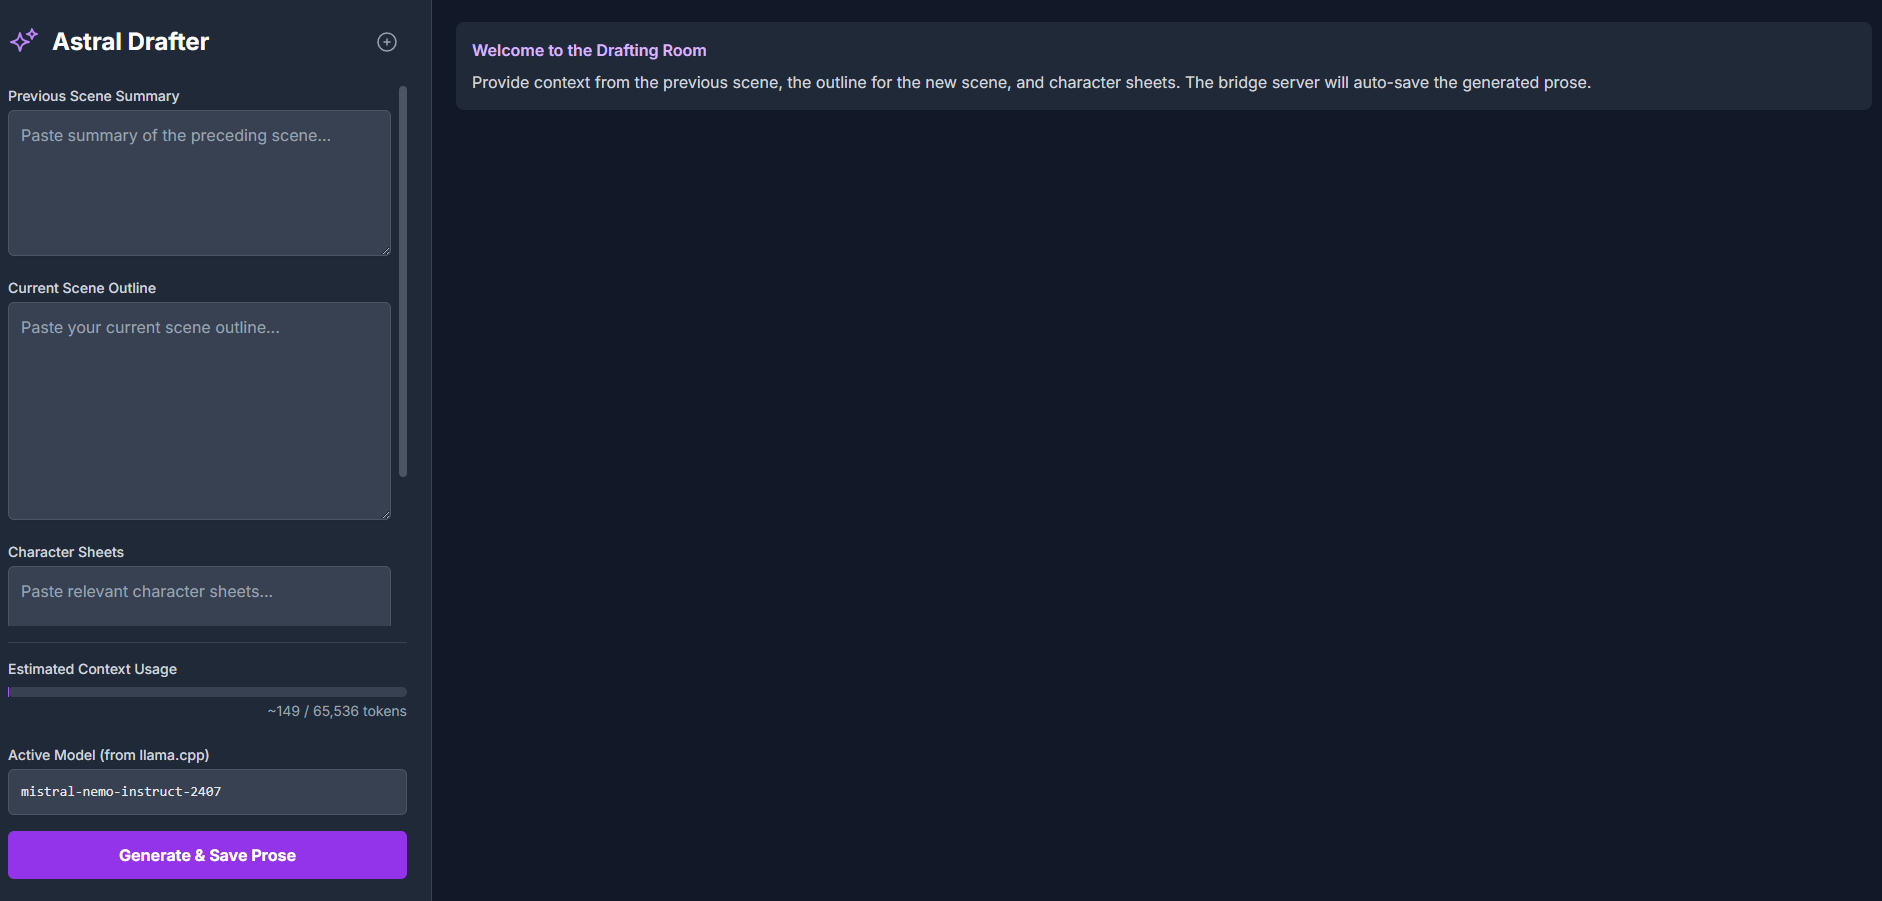
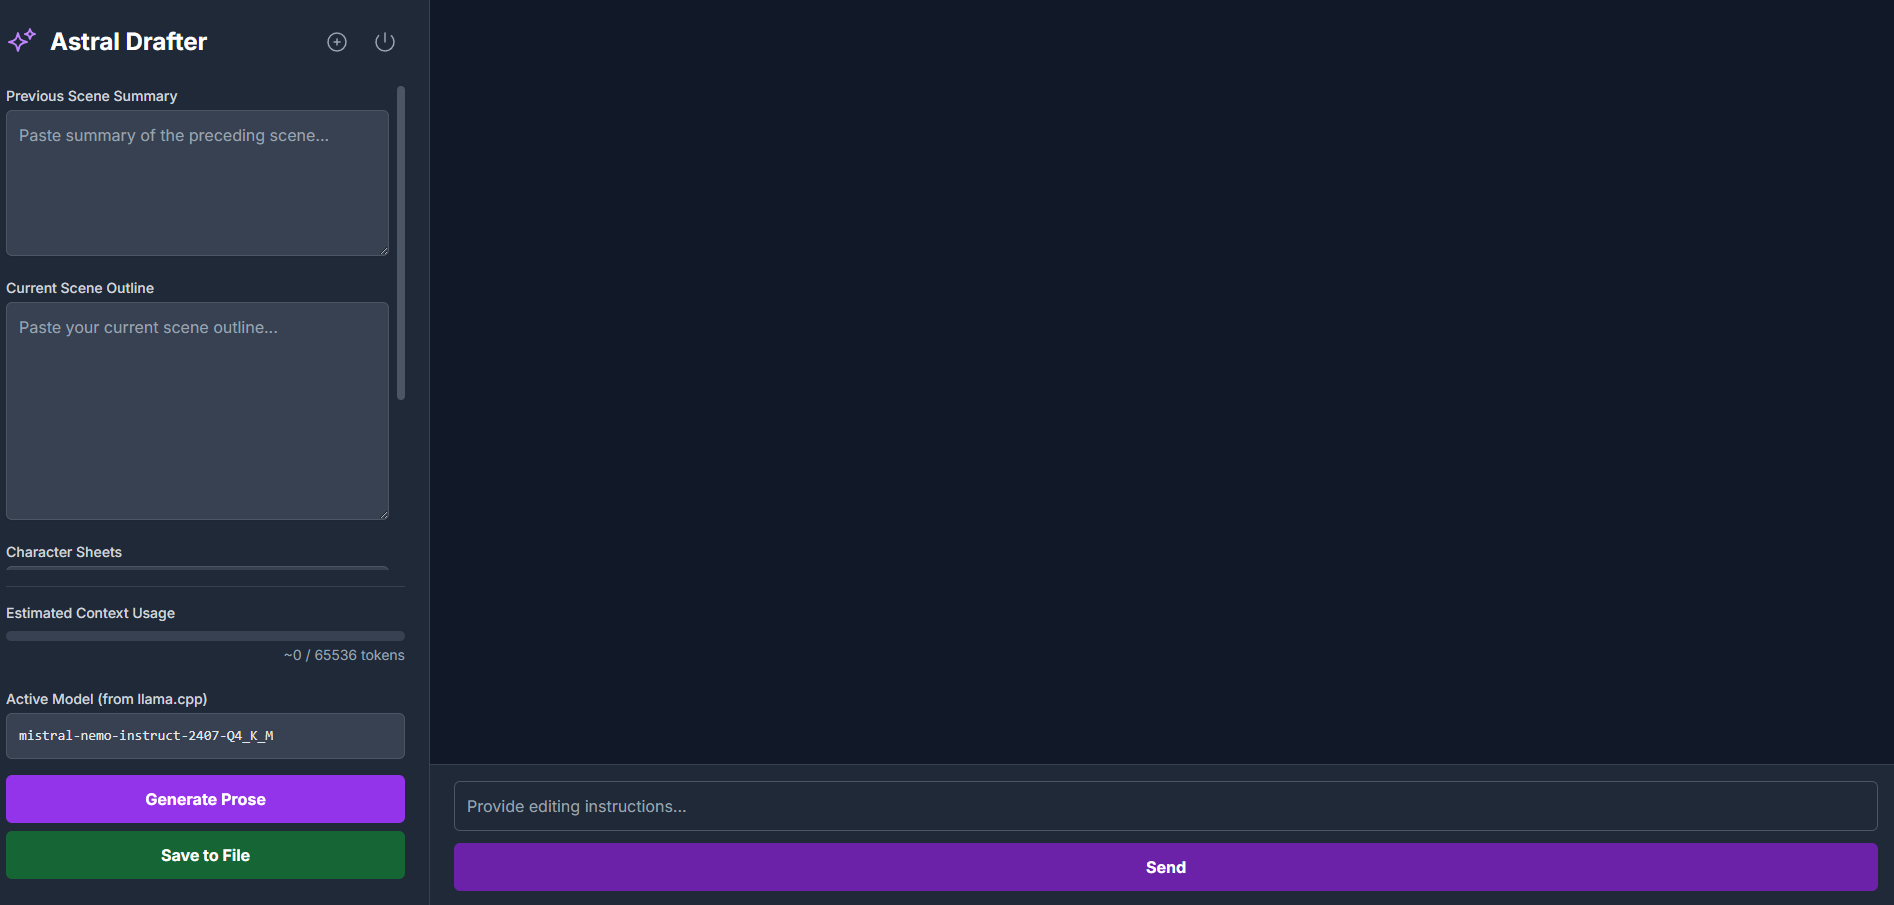
Server Shutdown Button_Model Naming

diff --git a/gui/astral_nexus_drafter.html b/gui/astral_nexus_drafter.html
@@ -42,11 +42,18 @@
                     </svg>
                     <h1 class="text-2xl font-bold text-white">Astral Drafter</h1>
                 </div>
-                <button id="new-scene-button" title="Start a new scene" class="p-2 rounded-md hover:bg-gray-700 transition text-gray-400 hover:text-white">
-                    <svg class="w-6 h-6" xmlns="http://www.w3.org/2000/svg" fill="none" viewBox="0 0 24 24" stroke-width="1.5" stroke="currentColor">
-                      <path stroke-linecap="round" stroke-linejoin="round" d="M12 9v6m3-3H9m12 0a9 9 0 1 1-18 0 9 9 0 0 1 18 0Z" />
-                    </svg>
-                </button>
+                <div class="flex items-center space-x-2">
+                    <button id="new-scene-button" title="Start a new scene" class="p-2 rounded-md hover:bg-gray-700 transition text-gray-400 hover:text-white">
+                        <svg class="w-6 h-6" xmlns="http://www.w3.org/2000/svg" fill="none" viewBox="0 0 24 24" stroke-width="1.5" stroke="currentColor">
+                          <path stroke-linecap="round" stroke-linejoin="round" d="M12 9v6m3-3H9m12 0a9 9 0 1 1-18 0 9 9 0 0 1 18 0Z" />
+                        </svg>
+                    </button>
+                    <button id="shutdown-button" title="Shutdown servers" class="p-2 rounded-md hover:bg-red-900 transition text-gray-400 hover:text-red-400">
+                        <svg class="w-6 h-6" xmlns="http://www.w3.org/2000/svg" fill="none" viewBox="0 0 24 24" stroke-width="1.5" stroke="currentColor">
+                            <path stroke-linecap="round" stroke-linejoin="round" d="M5.636 5.636a9 9 0 1 0 12.728 0M12 3v9" />
+                        </svg>
+                    </button>
+                </div>
             </div>
 
             <div class="flex flex-col space-y-4 flex-grow overflow-y-auto pr-2">
@@ -86,11 +93,11 @@
 
             <!-- Model Info and Generate Button -->
             <div class="mt-auto pt-6">
-                <!-- NEW: Static Model Info Display -->
+                <!-- Dynamic Model Info Display -->
                 <div>
                     <label class="block text-sm font-medium text-gray-300 mb-1">Active Model (from llama.cpp)</label>
                     <div class="w-full p-3 bg-gray-700 border border-gray-600 rounded-md">
-                        <p class="text-gray-200 font-mono text-sm">mistral-nemo-instruct-2407</p>
+                        <p id="model-name" class="text-gray-200 font-mono text-sm">Loading...</p>
                     </div>
                 </div>
 
@@ -134,6 +141,7 @@
         // --- Element Selectors ---
 const generateButton = document.getElementById('generate-button');
 const saveButton = document.getElementById('save-button');
+const shutdownButton = document.getElementById('shutdown-button');
 const newSceneButton = document.getElementById('new-scene-button');
 const spinner = document.getElementById('spinner');
 const prevSceneInput = document.getElementById('prev-scene-summary');
@@ -146,9 +154,11 @@ const progressBar = document.getElementById('progress-bar');
 const tokenCountEl = document.getElementById('token-count');
 const chatInput = document.getElementById('chat-input');
 const sendButton = document.getElementById('send-button');
+const modelNameEl = document.getElementById('model-name');
 
 // --- Configuration ---
-const MCP_SERVER_URL = "http://localhost:8081/mcp"; 
+const MCP_SERVER_URL = "http://localhost:8081/mcp";
+const MODEL_INFO_URL = "http://localhost:8081/model_info";
 const MAX_CONTEXT = 65536;
 
 // --- State ---
@@ -168,6 +178,7 @@ outlineInput.addEventListener('input', updateContextUsage);
 characterInput.addEventListener('input', updateContextUsage);
 generateButton.addEventListener('click', generateProse);
 saveButton.addEventListener('click', saveProseToFile);
+shutdownButton.addEventListener('click', shutdownServers);
 newSceneButton.addEventListener('click', resetInterface);
 sendButton.addEventListener('click', sendChatMessage);
 chatInput.addEventListener('keypress', (e) => {
@@ -175,6 +186,26 @@ chatInput.addEventListener('keypress', (e) => {
         sendChatMessage();
     }
 });
+
+// --- Initialization ---
+// Fetch model info when page loads
+async function fetchModelInfo() {
+    try {
+        const response = await fetch(MODEL_INFO_URL);
+        if (!response.ok) {
+            throw new Error(`Failed to fetch model info: ${response.status}`);
+        }
+        const data = await response.json();
+        modelNameEl.textContent = data.model_name || 'Unknown';
+    } catch (error) {
+        console.error("Error fetching model info:", error);
+        modelNameEl.textContent = 'Error loading model info';
+        modelNameEl.classList.add('text-red-400');
+    }
+}
+
+// Load model info on page load
+fetchModelInfo();
 
 // --- Core Functions ---
 function resetInterface() {
@@ -216,6 +247,56 @@ function updateContextUsage() {
     } else {
         progressBar.classList.remove('bg-yellow-500', 'bg-red-500');
         progressBar.classList.add('bg-purple-500');
+    }
+}
+
+async function shutdownServers() {
+    const confirmed = confirm("Shutdown Servers?\n\nThis will terminate both the llama.cpp server and the Python bridge server.");
+    
+    if (!confirmed) {
+        return;
+    }
+
+    shutdownButton.disabled = true;
+    errorMessage.textContent = '';
+
+    try {
+        const response = await fetch(MCP_SERVER_URL, {
+            method: 'POST',
+            headers: { 'Content-Type': 'application/json' },
+            body: JSON.stringify({
+                shutdown: true
+            })
+        });
+
+        if (!response.ok) {
+            const errorData = await response.json();
+            throw new Error(errorData.error || `Shutdown request failed: ${response.status}`);
+        }
+        
+        const result = await response.json();
+        
+        // Show success message
+        alert("Servers are now shut down. You can close this window.");
+        
+        // Disable all controls since servers are down
+        generateButton.disabled = true;
+        saveButton.disabled = true;
+        sendButton.disabled = true;
+        chatInput.disabled = true;
+
+    } catch (error) {
+        console.error("Error shutting down servers:", error);
+        // Even if we get an error, the shutdown process might have started
+        alert("Servers are now shut down. You can close this window.");
+        
+        // Disable all controls
+        generateButton.disabled = true;
+        saveButton.disabled = true;
+        sendButton.disabled = true;
+        chatInput.disabled = true;
+    } finally {
+        shutdownButton.disabled = false;
     }
 }
 
@@ -464,4 +545,3 @@ function resetInterface() {
     </script>
 </body>
 </html>
-

diff --git a/llama_cpp_server_bridge.py b/llama_cpp_server_bridge.py
@@ -3,11 +3,23 @@ import socketserver
 import json
 import requests
 import os
+import sys
+import subprocess
 
 LLAMA_CPP_API_URL = "http://localhost:8080/v1/chat/completions"
 PORT = 8081
 
+# Global reference to the server instance
+server_instance = None
+
 class DrafterBridgeServer(http.server.BaseHTTPRequestHandler):
+    
+    def do_GET(self):
+        """Handle GET requests for model information"""
+        if self.path == '/model_info':
+            self._handle_model_info_request()
+        else:
+            self.send_error(404, "Not Found")
     
     def do_POST(self):
         try:
@@ -15,8 +27,10 @@ class DrafterBridgeServer(http.server.BaseHTTPRequestHandler):
             post_data = self.rfile.read(content_length)
             data = json.loads(post_data)
 
-            # NEW: Check if this is a save request or a generation request
-            if 'save_content' in data:
+            # Check if this is a shutdown, save, or generation request
+            if 'shutdown' in data:
+                self._handle_shutdown_request()
+            elif 'save_content' in data:
                 self._handle_save_request(data)
             else:
                 self._handle_generation_request(data)
@@ -24,6 +38,75 @@ class DrafterBridgeServer(http.server.BaseHTTPRequestHandler):
         except (json.JSONDecodeError, TypeError, KeyError) as e:
             self._send_error(f"Invalid JSON request: {e}", 400)
             return
+
+    # Function to handle model info request
+    def _handle_model_info_request(self):
+        """Fetch and return model information from llama.cpp"""
+        try:
+            # Query the llama.cpp server for model info
+            response = requests.get("http://localhost:8080/v1/models")
+            response.raise_for_status()
+            
+            model_data = response.json()
+            # Extract model name from the response
+            model_name = "Unknown"
+            if 'data' in model_data and len(model_data['data']) > 0:
+                model_id = model_data['data'][0].get('id', 'Unknown')
+                # Clean up the model name (remove path if present, works on both Windows and Unix)
+                model_name = os.path.basename(model_id)
+                # Remove .gguf extension if present
+                if model_name.endswith('.gguf'):
+                    model_name = model_name[:-5]
+            
+            self.send_response(200)
+            self.send_header('Content-Type', 'application/json')
+            self.send_header('Access-Control-Allow-Origin', '*')
+            self.end_headers()
+            response_data = json.dumps({'model_name': model_name})
+            self.wfile.write(response_data.encode('utf-8'))
+            
+        except requests.exceptions.RequestException as e:
+            self._send_error(f"Could not fetch model info from llama.cpp: {e}", 503)
+        except Exception as e:
+            self._send_error(f"Error retrieving model info: {e}", 500)
+
+    # Function to handle shutdown request
+    def _handle_shutdown_request(self):
+        try:
+            self.send_response(200)
+            self.send_header('Content-Type', 'application/json')
+            self.send_header('Access-Control-Allow-Origin', '*')
+            self.end_headers()
+            response = json.dumps({'message': 'Shutting down servers...'})
+            self.wfile.write(response.encode('utf-8'))
+            
+            # Kill llama-server.exe
+            try:
+                subprocess.run(['taskkill', '/IM', 'llama-server.exe', '/F'], 
+                             capture_output=True, check=False)
+                print("Terminated llama-server.exe")
+            except Exception as e:
+                print(f"Error terminating llama-server: {e}")
+            
+            # Schedule this server to shut down
+            import threading
+            def shutdown_self():
+                import time
+                time.sleep(1)  # Give time for response to be sent
+                print("Shutting down bridge server...")
+                
+                # Shutdown the HTTP server
+                global server_instance
+                if server_instance:
+                    server_instance.shutdown()
+                
+                # Force exit the process
+                os._exit(0)
+            
+            threading.Thread(target=shutdown_self, daemon=True).start()
+            
+        except Exception as e:
+            self._send_error(f"Error during shutdown: {e}", 500)
 
     # NEW: Function to handle saving the file
     def _handle_save_request(self, data):
@@ -116,7 +199,13 @@ class DrafterBridgeServer(http.server.BaseHTTPRequestHandler):
         self.end_headers()
 
 if __name__ == "__main__":
-    with socketserver.TCPServer(("", PORT), DrafterBridgeServer) as httpd:
-        print(f"🚀 Astral Drafter BRIDGE server starting on http://localhost:{PORT}")
-        print(f"Ready to forward requests to llama.cpp at {LLAMA_CPP_API_URL}")
+    httpd = socketserver.TCPServer(("", PORT), DrafterBridgeServer)
+    server_instance = httpd
+    print(f"🚀 Astral Drafter BRIDGE server starting on http://localhost:{PORT}")
+    print(f"Ready to forward requests to llama.cpp at {LLAMA_CPP_API_URL}")
+    try:
         httpd.serve_forever()
+    except KeyboardInterrupt:
+        print("\nShutting down gracefully...")
+    finally:
+        httpd.server_close()
